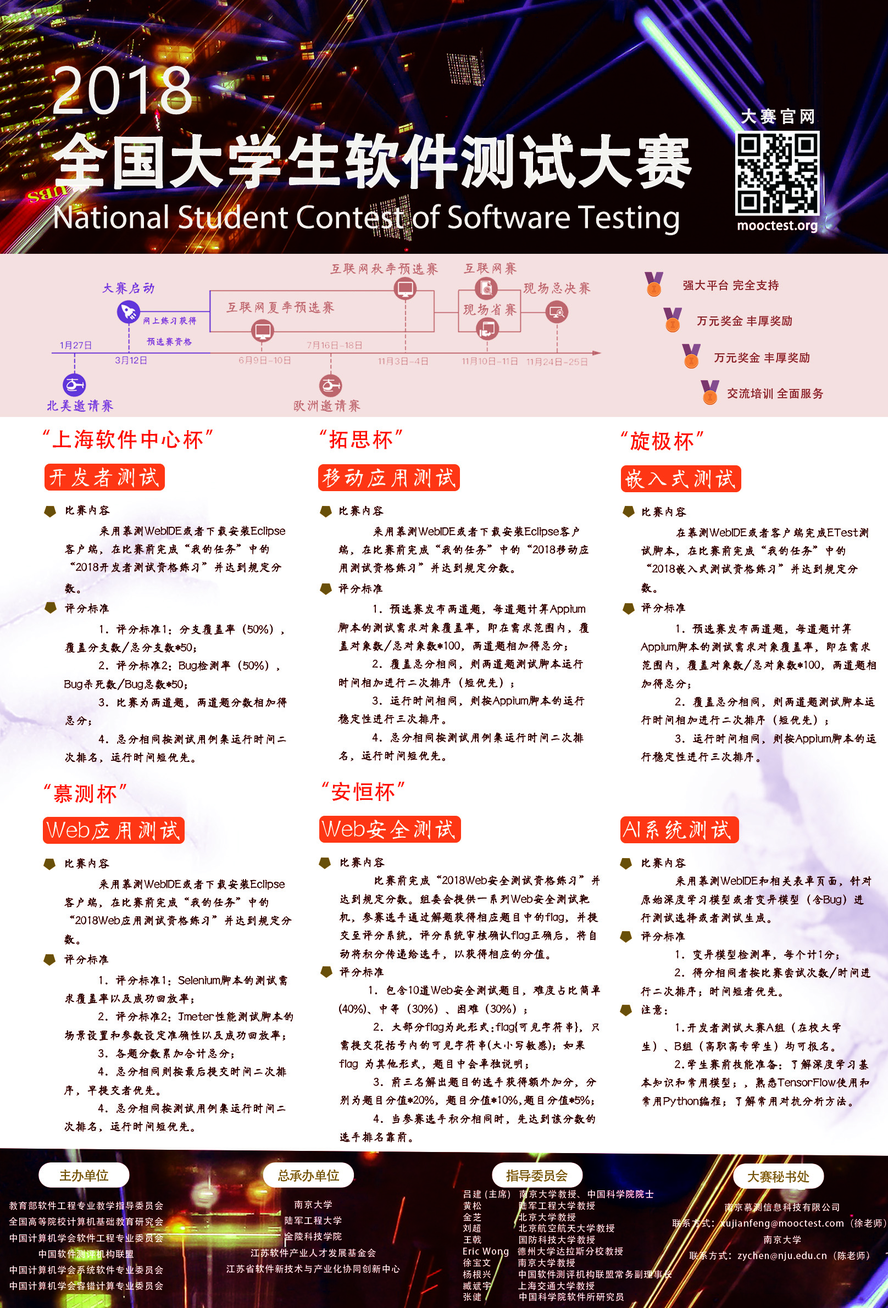
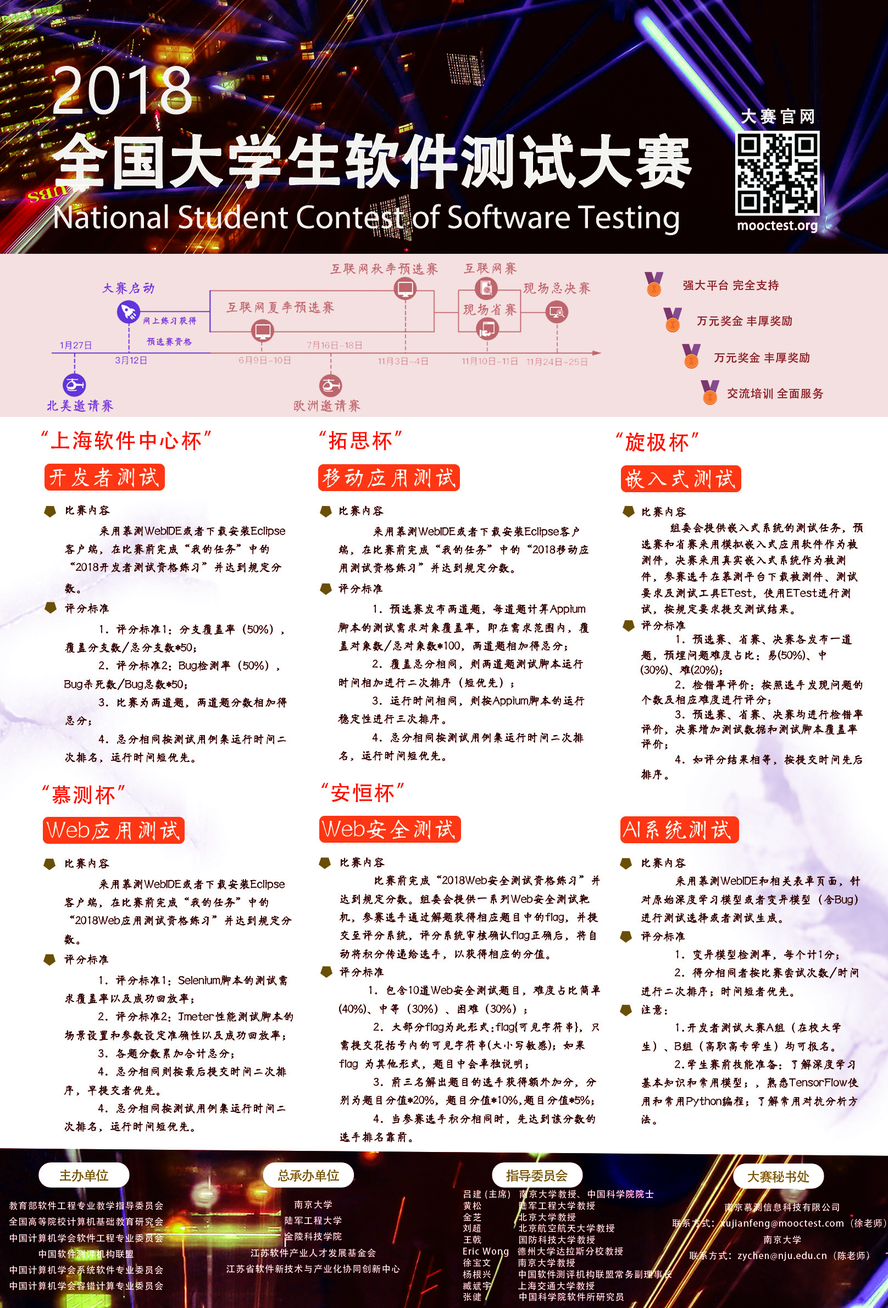
<dev>:<update embedded test content>

diff --git a/src/components/Sub/Embedded.vue b/src/components/Sub/Embedded.vue
@@ -18,8 +18,8 @@
 
           <div class="sub-content">
             <p>
-              &nbsp;&nbsp;&nbsp;&nbsp;&nbsp;&nbsp;登录<a target="_blank"
-                                                       :href="'http://www.mooctest.net/contest/list'">慕测平台</a>，报名<b>“2018年大学生嵌入式测试大赛”</b>，在慕测WebIDE或者客户端完成ETest测试脚本，在比赛前完成“我的任务”中的<b>“2018嵌入式测试资格练习”</b>并达到规定分数。
+              &nbsp;&nbsp;&nbsp;&nbsp;&nbsp;&nbsp;组委会提供嵌入式系统的测试任务，采用<b>模拟嵌入式应用软件</b>作为被测件，参赛选手在<a target="_blank"
+                                                                              :href="'http://www.mooctest.net/contest/list'">慕测平台</a>下载被测件、测试要求及测试工具ETest，使用ETest进行测试，按规定要求提交测试结果。
             </p>
           </div>
 
@@ -29,16 +29,13 @@
 
           <div class="sub-content">
             <p>
-              &nbsp;&nbsp;&nbsp;&nbsp;&nbsp;&nbsp;1. 评分标准1：测试脚本的需求覆盖率；
+              &nbsp;&nbsp;&nbsp;&nbsp;&nbsp;&nbsp;1. 预选赛、省赛、决赛各发布一道题，预埋问题难度占比：易（50%）、中（30%）、难（20%）；
             </p>
             <p>
-              &nbsp;&nbsp;&nbsp;&nbsp;&nbsp;&nbsp;2. 评分标准2：测试脚本的Bug检测率；
+              &nbsp;&nbsp;&nbsp;&nbsp;&nbsp;&nbsp;2. 进行检错率评价：按照选手发现问题的个数及相应难度进行评分；
             </p>
             <p>
-              &nbsp;&nbsp;&nbsp;&nbsp;&nbsp;&nbsp;3. 评分标准1和2进行加权累计得该题总分；
-            </p>
-            <p>
-              &nbsp;&nbsp;&nbsp;&nbsp;&nbsp;&nbsp;4. 总分相同则按最后提交时间二次排序，早提交者优先。
+              &nbsp;&nbsp;&nbsp;&nbsp;&nbsp;&nbsp;3. 如评分结果相等，按提交时间先后排序。
             </p>
           </div>
 
@@ -62,7 +59,8 @@
 
           <div class="sub-content">
             <p>
-              &nbsp;&nbsp;&nbsp;&nbsp;&nbsp;&nbsp;组委会提供基于互联网的模拟嵌入式测试任务，对模拟嵌入式应用程序进行基于工具的自动化黑盒测试，在慕测WebIDE或者客户端完成ETest测试脚本。
+              &nbsp;&nbsp;&nbsp;&nbsp;&nbsp;&nbsp;组委会提供嵌入式系统的测试任务，采用<b>模拟嵌入式应用软件</b>作为被测件，参赛选手在<a target="_blank"
+                                                                                                                  :href="'http://www.mooctest.net/contest/list'">慕测平台</a>下载被测件、测试要求及测试工具ETest，使用ETest进行测试，按规定要求提交测试结果。
             </p>
           </div>
 
@@ -72,16 +70,13 @@
 
           <div class="sub-content">
             <p>
-              &nbsp;&nbsp;&nbsp;&nbsp;&nbsp;&nbsp;1. 评分标准1：测试脚本的需求覆盖率；
+              &nbsp;&nbsp;&nbsp;&nbsp;&nbsp;&nbsp;1. 预选赛、省赛、决赛各发布一道题，预埋问题难度占比：易（50%）、中（30%）、难（20%）；
             </p>
             <p>
-              &nbsp;&nbsp;&nbsp;&nbsp;&nbsp;&nbsp;2. 评分标准2：测试脚本的Bug检测率；
+              &nbsp;&nbsp;&nbsp;&nbsp;&nbsp;&nbsp;2. 进行检错率评价：按照选手发现问题的个数及相应难度进行评分；
             </p>
             <p>
-              &nbsp;&nbsp;&nbsp;&nbsp;&nbsp;&nbsp;3. 评分标准1和2进行加权累计得该题总分；
-            </p>
-            <p>
-              &nbsp;&nbsp;&nbsp;&nbsp;&nbsp;&nbsp;4. 总分相同则按最后提交时间二次排序，早提交者优先。
+              &nbsp;&nbsp;&nbsp;&nbsp;&nbsp;&nbsp;3. 如评分结果相等，按提交时间先后排序。
             </p>
           </div>
         </div>
@@ -95,7 +90,8 @@
 
           <div class="sub-content">
             <p>
-              &nbsp;&nbsp;&nbsp;&nbsp;&nbsp;&nbsp;总决赛现场仍使用ETest作为测试环境，被测件为嵌入式教学工具箱中的嵌入式软件，比赛过程中使用组委会配发电脑，不得私自外接各类设备，选手可自带笔记本以参考相关资料。
+              &nbsp;&nbsp;&nbsp;&nbsp;&nbsp;&nbsp;组委会提供嵌入式系统的测试任务，采用<b>真实嵌入式系统</b>作为被测件，参赛选手在<a target="_blank"
+                                                                                                                  :href="'http://www.mooctest.net/contest/list'">慕测平台</a>下载被测件、测试要求及测试工具ETest，使用ETest进行测试，按规定要求提交测试结果。
             </p>
           </div>
 
@@ -105,16 +101,16 @@
 
           <div class="sub-content">
             <p>
-              &nbsp;&nbsp;&nbsp;&nbsp;&nbsp;&nbsp;1. 评分标准1：测试脚本的Bug检测率；
+              &nbsp;&nbsp;&nbsp;&nbsp;&nbsp;&nbsp;1. 预选赛、省赛、决赛各发布一道题，预埋问题难度占比：易（50%）、中（30%）、难（20%）；
             </p>
             <p>
-              &nbsp;&nbsp;&nbsp;&nbsp;&nbsp;&nbsp;2. 评分标准2：测试脚本及测试数据质量评价；
+              &nbsp;&nbsp;&nbsp;&nbsp;&nbsp;&nbsp;2. 检错率评价：按照选手发现问题的个数及相应难度进行评分；
             </p>
             <p>
-              &nbsp;&nbsp;&nbsp;&nbsp;&nbsp;&nbsp;3. 评分标准1和2进行加权累计得该题总分；
+              &nbsp;&nbsp;&nbsp;&nbsp;&nbsp;&nbsp;3. 进行检错率评价、测试数据和测试脚本覆盖率评价；
             </p>
             <p>
-              &nbsp;&nbsp;&nbsp;&nbsp;&nbsp;&nbsp;4. 总分相同选手根据最后一次提交时间二次排名。
+              &nbsp;&nbsp;&nbsp;&nbsp;&nbsp;&nbsp;4. 如评分结果相等，按提交时间先后排序。
             </p>
           </div>
         </div>
